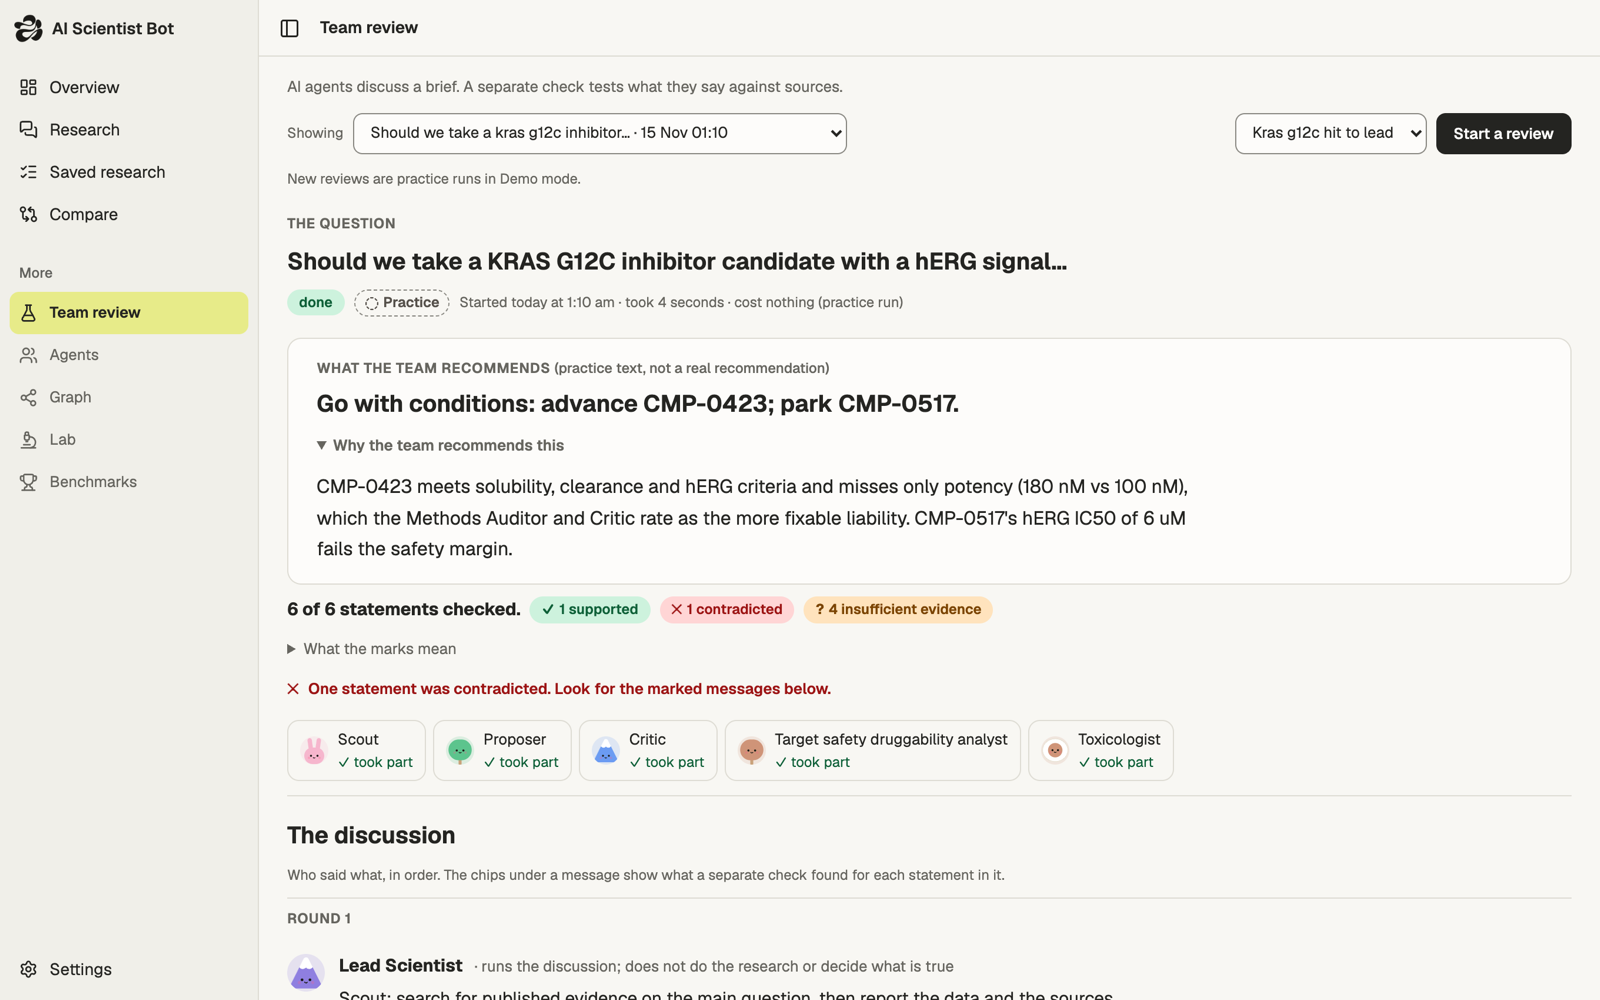
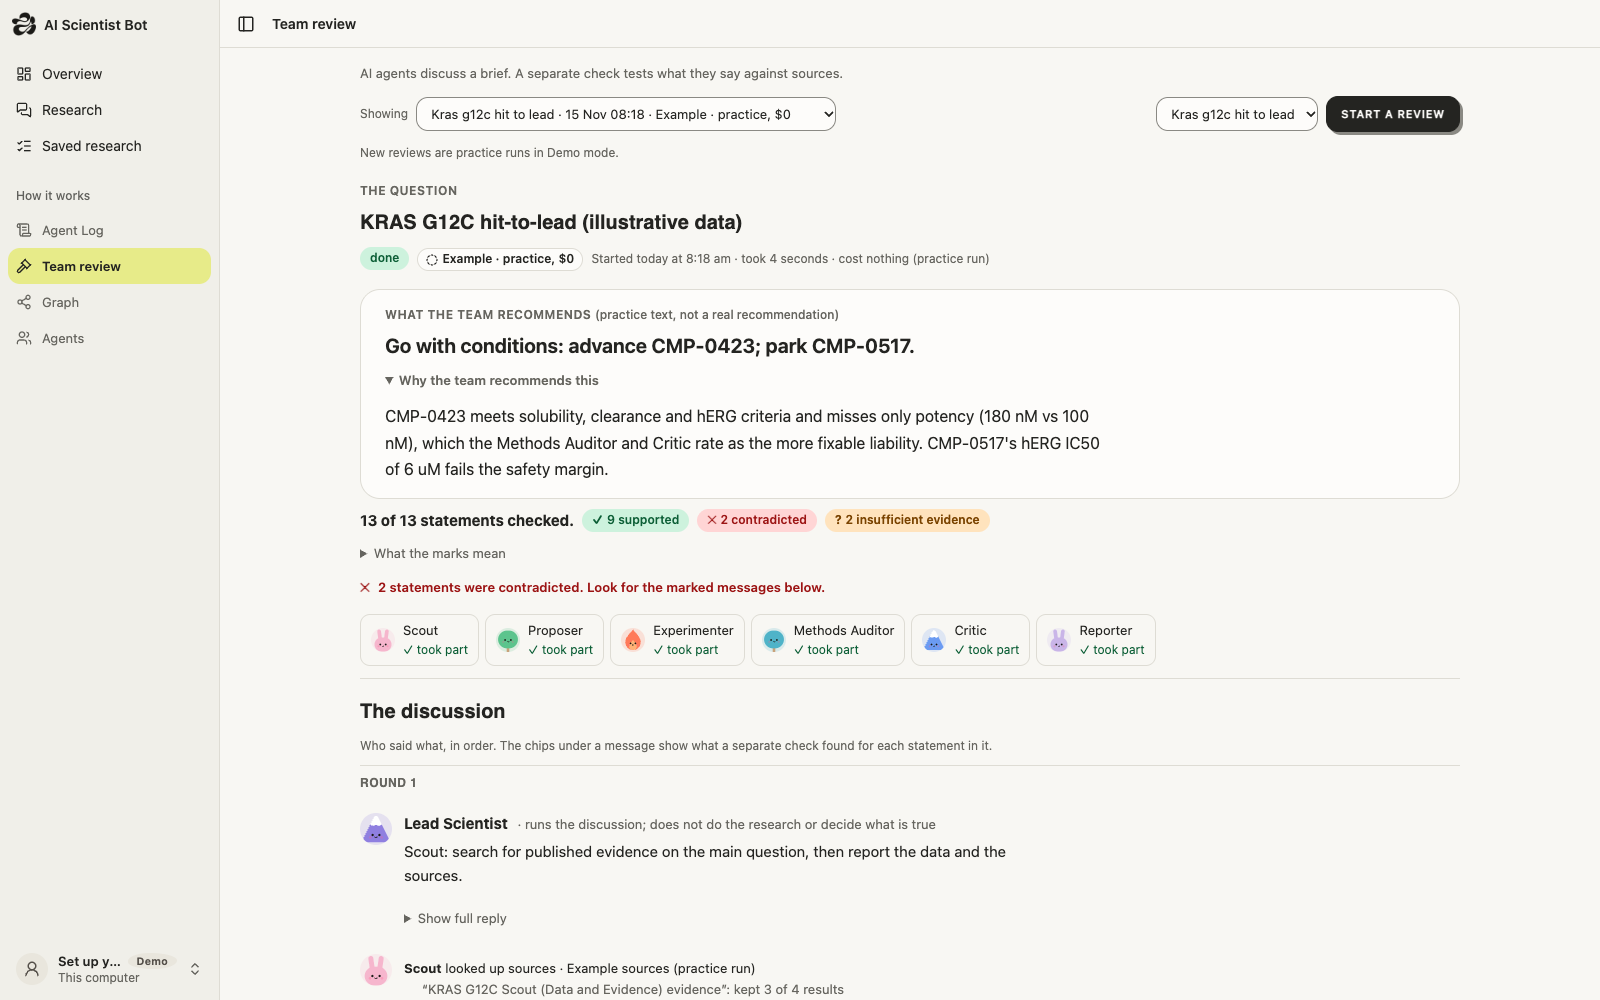
docs(readme): walk through the current app page by page, with new Demo screenshots

diff --git a/README.md b/README.md
@@ -6,7 +6,7 @@ checked, and what is still uncertain.**
 Built for the **SF AI Research Hackathon** (Track 3, AI Scientist Swarms) by team GLHF:
 Brendan Dang, Anh Lam and Josh Bustamante.
 
-**Contents:** [Try it](#try-it) · [Demo and Real](#demo-and-real) · [What is in the app](#what-is-in-the-app) ·
+**Contents:** [Run it](#run-it-on-your-machine) · [Demo and Real](#demo-and-real) · [Using the app](#using-the-app) ·
 [Where things stand](#where-things-stand) · [Benchmarks](#benchmarks) · [How it fits together](#how-it-fits-together) ·
 [Words](#words) · [Read more](#read-more)
 
@@ -127,24 +127,102 @@ only the case's data files are uploaded.
 Tested with fakes only; no run has used Modal yet. Details:
 [docs/configuration.md](docs/configuration.md#where-the-swarms-analyses-run-analysis_backend).
 
-## What is in the app
+## Using the app
 
-The sidebar has two groups. **Overview, Research, Saved research** come first: ask, read, find again.
-**How it works** holds Agent Log, Team review, Graph and Agents. Settings opens from the profile row at the foot.
-Benchmarks and Compare are not in the sidebar. They open only by their address (`#Benchmarks`, `#Compare`).
+The sidebar has two groups. **Overview**, **Research** and **Saved research** come first: ask, read, find again.
+**How it works** holds **Agent Log**, **Team review**, **Graph** and **Agents**. **Settings** opens from the profile
+row at the foot. Benchmarks and Compare are not in the sidebar; they open only by their address (`#Benchmarks`,
+`#Compare`). The pictures below are **Demo mode**: practice runs with fixed example text, not research. The app
+labels them "Practice".
 
-| Screen | What it is for |
-|---|---|
-| Overview | Ask in the "Let's research together!" question box. The answer is written right under the box. Below it, follow the six-room Agent Lab and its activity panel. The answer is also the conversation in Research, so a follow-up there continues it. One quiet line counts research and practice apart. |
-| Research | The chat. Ask a question and read the answer with its sources and its hypotheses. An example question fills the box; nothing is sent until you press Send. |
-| Saved research | Search past runs and open any result. The Examples tab has six read-only practice runs. |
-| Compare | Not in the sidebar; open `#Compare`. A team of nine agents against one agent alone, on the same task. |
-| Team review | One review in detail: what each agent said, and how each statement was checked. |
-| Agents | The agents and what each one does, as member cards grouped by team: the team of nine in step order, the team review with its lead first, then the specialists A to Z. Details opens one member at a time in a side panel, so the other cards keep their size. |
-| Graph | One run as a picture of who said what. |
-| Agent Log | Every event of the selected run, shown as a group chat. Each agent turn is a message beside the agent's picture and name. Longer reasoning opens with "Show thinking"; other long text, such as an answer draft, opens with "Show more". Tool calls, searches and system steps are small notes between the messages. While a run is live, the log stays on the newest message. One toolbar holds the search box, the Agent and Kind of step menus (each choice with its number of events) and Clear; on the right, Download (JSON or CSV of the shown events). The run menu above it lists runs in progress, then finished runs, next to Follow newest. No room picture here; the Lab stays on Overview. |
-| Benchmarks | Not in the sidebar; open `#Benchmarks`. Our benchmark results set out as an evaluation: model, accuracy with its interval, tokens, time and cost, beside the record to beat. |
-| Settings | Demo or Real, Usage and limits (spent today, the limit per run and per day, Exa search), and Appearance: Light, Dark, or Match system. |
+### 1. Overview: ask, and watch the team work
+
+The app opens here. Type a question in the **"Let's research together!"** box, choose Quick, Standard or Deep, and
+press Send. Under the box, **Try asking** shows biology questions; a click fills the box, and nothing is sent until
+you press Send. The answer is written right under the box. Below it, the **Agent Lab** shows the team as characters in
+six rooms (Discovery, Planning, Experiment bench; Evidence review, Quality control, Report studio). Click a teammate to
+see what it does now, and its steps in the Agent Log. The activity panel follows the run. One quiet line counts
+research and practice apart. Spending and limits are in Settings.
+
+![The Overview: the question box, Try asking, and the Agent Lab with six rooms](docs/images/overview.png)
+
+The Lab's look is by Anh Lam.
+
+### 2. Research: the answer as a chat
+
+An Overview question continues here as the same conversation, so a follow-up keeps the context. The answer is
+written **live**: its text appears as the writer writes it, under short lines that say what the team is doing
+("Searching the web: found 6, kept 4."). Each cited sentence has a source number and a check mark. Below the text are
+the **hypotheses**, each with its sources for and against, then "What is missing" and the sources. Pictures from the
+sources show in a strip under the text; each links to its source page. "Open in the Agent Log" shows every step.
+
+Try asking works as on Overview: a click fills the box. The button at the top right opens the **inspector**, with
+four tabs:
+
+- **Evidence**: the sources (found, selected, cited) and each checked statement with its quoted passage. A citation
+  number in the answer opens this tab with that source lit; "Show in the answer" goes back.
+- **Hypotheses**, **Results** (the saved files) and **Activity** (the steps, in order).
+
+![Research: a practice answer with the inspector open on the Evidence tab](docs/images/research.png)
+
+### 3. Saved research: everything that was run
+
+Newest first, with a search box that finds a word in a question, a result or anything that was said. Filters:
+Answers, Team reviews, Benchmark runs and **Examples** (six read-only practice runs, see
+[Example library](#example-library)). Each row opens the run, and has a link to its Agent Log (and to its Graph, for
+a run that has one).
+
+### 4. Agent Log and Team review: who said what
+
+The **Agent Log** shows every event of one run as a **group chat**. Each agent turn is a message beside the agent's
+picture and name. Longer reasoning opens with **Show thinking**; other long text opens with **Show more**. Tool
+calls, searches and system steps are small notes between the messages. One toolbar holds the search box, the
+**Agent** and **Kind of step** menus (each choice with its number of events), Clear and Download (JSON or CSV). The
+run menu at the top lists runs in progress, then finished ones, next to **Follow newest**. Click a face or a name to
+see only that agent's messages, then follow the link to its card in Agents.
+
+![The Agent Log: one run as a group chat, with the search box and the Agent and Kind of step menus](docs/images/agent-log.png)
+
+A **Team review** is the drug board: a lead scientist and seven members discuss a written brief over rounds, and the
+lead writes a recommendation. In every round the scout gathers sources first, then the **evidence verifier** rechecks
+each source the scout cited and searches for what it missed; the lead reads its report before deciding. The screen shows the recommendation first, then how many statements were checked and
+how each one did (supported, contradicted, insufficient evidence), who took part, and the discussion round by round.
+Each member opens its messages in the Agent Log; each source and checked statement has an "In the graph" link.
+
+![Team review: the recommendation, the counts of checked statements, and who took part](docs/images/team-review.png)
+
+### 5. Agents: who does the work
+
+All agents as member cards, grouped by team: the **team of nine** (benchmark tasks) in step order, the **team review**
+with its lead first, then the **specialists** A to Z. Filter by team or search by name, job or tool. **Details** opens
+one member in a side panel, with a link to its messages in the Agent Log.
+
+![Agents: member cards for the team of nine, with their step and model group](docs/images/agents.png)
+
+### 6. Graph: one run as a picture
+
+One run (a team review, or a Compare run on a benchmark task) as a 3D graph of team members and their statements, coloured by what each
+check found. "Watch how this unfolded" replays the statements in order; "Next contradicted one" jumps to a problem.
+Select a node to see its details and what it connects to. The side panel links back to the run and to the Agent Log.
+A research answer has no graph.
+
+![Graph: a practice team review as members and statements, with contradicted ones in red](docs/images/graph.png)
+
+### 7. Settings
+
+Your profile (kept in this browser only), **Run mode** (Demo or Real; see [Turn on Real mode](#turn-on-real-mode)),
+**Usage and limits** (spent today, the limit per run and per day, Exa search), the session token for Real runs, and
+**Appearance**: Light, Dark or Match system. Light is the default.
+
+### Compare and Benchmarks
+
+These two are not in the sidebar; open them by their address. **Compare** (`#Compare`) runs the team of nine against
+one agent alone on the same benchmark task. **Benchmarks** (`#Benchmarks`) sets out our
+results as an evaluation: model, accuracy with its interval, tokens, time and cost, beside the record to beat. These
+numbers come from real runs, read from the run records. Where something was not measured the screen says "Not
+known". See [Benchmarks](#benchmarks).
+
+![The Benchmarks screen: the record to beat, and one agent against the team of nine with accuracy, tokens, time and cost](docs/images/benchmarks.png)
 
 ### How the screens connect
 
@@ -166,10 +244,7 @@ The address bar always says what is shown, so Back, Forward and a copied link re
 `#Lab/<kind>/<run id>?agent=<name>`, `#Graph/<kind>/<run id>?node=<node id>`, `#Agents/<name>`, `#Board/<run id>`,
 `#Compare/<run id>`. The code is in `dashboard/src/lib/links.ts`.
 
-The Overview Lab has **three rooms across and two down on wide screens**: Discovery, Planning,
-Experiment bench; Evidence review, Quality control, Report studio. The activity panel sits
-below it. Narrow screens use fewer columns. Agents walk between rooms along the corridors.
-The room art is unchanged. The Lab's look is by Anh Lam.
+### How a research answer is made
 
 Research answers can add **method specialists** whose skills fit the question. Code matches
 the question to their method notes. They write from the sources found; their sections are
@@ -204,9 +279,11 @@ cannot be read, curated biology questions are shown. On Overview and on Research
 the box; nothing is sent until you press Send. If the engine cannot be reached, the older example questions stay.
 
 Research answers search the literature in six free sources at once: Europe PMC (PubMed and
-preprints), OpenAlex, Semantic Scholar, arXiv, Crossref and bioRxiv/medRxiv. A source that fails is skipped and named; a
-paper found twice is listed once. No key is needed. See
-[docs/research-answer.md](docs/research-answer.md#the-flow).
+preprints), OpenAlex, Semantic Scholar, arXiv, Crossref and bioRxiv/medRxiv. A source that fails is
+skipped and named; a paper found twice is listed once, and a paper OpenAlex marks as retracted is
+dropped. No key is needed. Answers from the public
+databases (ChEMBL, Open Targets, UniProt and others) are kept for 10 minutes, so a repeated lookup
+does not ask again. See [docs/research-answer.md](docs/research-answer.md#the-flow).
 
 Headings use **Bricolage Grotesque**. Cards have rounded corners and offset sticker shadows.
 Body text stays Geist. Fonts ship with the dashboard; none are loaded from an outside font
@@ -236,36 +313,6 @@ node scripts/generate-examples.mjs
 
 The script starts its own engine with paid calls off and locked. It makes the events through
 the Demo pipeline, not by hand. These are practice runs, not research or benchmark results.
-
-### Earlier Demo screenshots
-
-The Overview, Research, Team review and Lab pictures below show earlier layouts in **Demo
-mode**. They are practice runs: fixed example text, not research. The app labels them "Practice".
-The Benchmarks picture is described separately.
-
-**Overview.** Practice runs are counted apart from research, so the big number is only what real
-models produced.
-
-![The Overview screen: totals, runs per day and the latest runs](docs/images/overview.png)
-
-**Research.** You ask; the answer is split into hypotheses, each with the sources for and against
-it. A mark that rests on one source only says so ("one source only").
-
-![The Research screen with a practice answer split into two hypotheses](docs/images/research.png)
-
-**Team review.** The decision first, then how many statements were checked and how each one did.
-
-![The Team review screen: the recommendation and the counts of supported, contradicted and unproven statements](docs/images/team-review.png)
-
-**Overview's Agent Lab.** The same run as a scene: who is working and who fetched what.
-This earlier picture shows the room art, not the current three-column layout or the Agent Log.
-
-![Earlier Demo Lab: six rooms with agents as characters and an activity panel](docs/images/lab.png)
-
-**Benchmarks.** These numbers are real runs, read from the run records. Where something was not
-measured the screen says "Not known".
-
-![The Benchmarks screen: the record to beat, and one agent against the team of nine with accuracy, tokens, time and cost](docs/images/benchmarks.png)
 
 ## Where things stand
 
@@ -408,7 +455,7 @@ holds the keys, enforces the spending limits, and is the only part that reaches 
 ```mermaid
 flowchart TB
     you(["You, in a browser"])
-    app["<b>The app</b> (dashboard) · 127.0.0.1:5317<br/>Research · Saved research · Compare · Team review<br/>Agents · Graph · Lab · Settings"]
+    app["<b>The app</b> (dashboard) · 127.0.0.1:5317<br/>Overview · Research · Agent Log · Saved research · Compare<br/>Team review · Agents · Graph · Benchmarks · Settings"]
 
     subgraph engine["The engine · 127.0.0.1:8787 · on your machine"]
         gate{"Access check and<br/>spending limits"}
